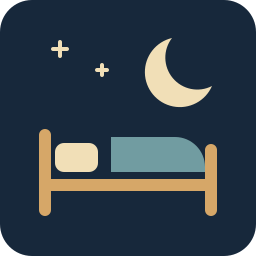
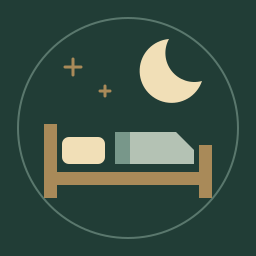
Add MIT licensing and matching Bedtime artwork

diff --git a/src/Bedtime/Properties/AssemblyInfo.cs b/src/Bedtime/Properties/AssemblyInfo.cs
@@ -4,3 +4,5 @@ using System.Reflection;
 [assembly: AssemblyProduct("Bedtime")]
 [assembly: AssemblyVersion("1.0.0.0")]
 [assembly: AssemblyFileVersion("1.0.0.0")]
+
+[assembly: AssemblyCopyright("Copyright (c) 2026 AugusDogus")]

diff --git a/docs/REPOSITORY.md b/docs/REPOSITORY.md
@@ -11,7 +11,7 @@ keep runtime code, dependencies, tests, artwork, and licensing specific to the m
 .github/workflows/release.yml  Build, check, and publish version tags
 src/<Mod>/                    Plugin.cs, project, runtime code and resources
 tests/                        Mod checks and release-tool regression tests
-package/                      Thunderstore manifest, icon, banner, screenshots
+package/                      Manifest, artwork, and applicable third-party notices
 assets/                       Editable artwork and required asset sources
 build/Package.targets         Shared dotnet build -t:Package entry point
 scripts/                      Package validation, version updates, mod checks
@@ -25,7 +25,7 @@ bump.config.mjs               Reviewed version commit and tag creation
 thunderstore.toml             Thunderstore publication settings
 README.md                     Player-facing overview, setup, controls, build link
 CHANGELOG.md                  Release history
-LICENSE.md                    Existing project license, when one is declared
+LICENSE.md                    MIT for original contributions; scoped where needed
 ```
 
 `artifacts/`, `bin/`, `obj/`, downloaded dependencies, and `Environment.props`
@@ -46,3 +46,10 @@ or runtime dependency on another repository is required.
 The root README is the source for both GitHub and the package page. Keep artwork
 under `package/` and link developer details under `docs/`; packaging adjusts
 those links. Retain existing attribution and licenses when starting from a fork.
+
+Use MIT for original AugusDogus code with a dated copyright notice. Preserve
+upstream authors, copyright years, license terms, and font notices. Adding
+MIT does not relicense inherited material. Put applicable third-party terms
+in `package/THIRD-PARTY-NOTICES.md` so they are included in release ZIPs.
+If upstream permissions are unknown, state that explicitly and limit the
+MIT grant to original contributions.

diff --git a/LICENSE.md b/LICENSE.md
@@ -1,13 +1,21 @@
-            DO WHAT THE FUCK YOU WANT TO PUBLIC LICENSE
-                    Version 2, December 2004
+MIT License
 
- Copyright (C) 2004 Sam Hocevar <sam@hocevar.net>
+Copyright (c) 2026 AugusDogus
 
- Everyone is permitted to copy and distribute verbatim or modified
- copies of this license document, and changing it is allowed as long
- as the name is changed.
+Permission is hereby granted, free of charge, to any person obtaining a copy
+of this software and associated documentation files (the "Software"), to deal
+in the Software without restriction, including without limitation the rights
+to use, copy, modify, merge, publish, distribute, sublicense, and/or sell
+copies of the Software, and to permit persons to whom the Software is
+furnished to do so, subject to the following conditions:
 
-            DO WHAT THE FUCK YOU WANT TO PUBLIC LICENSE
-   TERMS AND CONDITIONS FOR COPYING, DISTRIBUTION AND MODIFICATION
+The above copyright notice and this permission notice shall be included in all
+copies or substantial portions of the Software.
 
-  0. You just DO WHAT THE FUCK YOU WANT TO.
+THE SOFTWARE IS PROVIDED "AS IS", WITHOUT WARRANTY OF ANY KIND, EXPRESS OR
+IMPLIED, INCLUDING BUT NOT LIMITED TO THE WARRANTIES OF MERCHANTABILITY,
+FITNESS FOR A PARTICULAR PURPOSE AND NONINFRINGEMENT. IN NO EVENT SHALL THE
+AUTHORS OR COPYRIGHT HOLDERS BE LIABLE FOR ANY CLAIM, DAMAGES OR OTHER
+LIABILITY, WHETHER IN AN ACTION OF CONTRACT, TORT OR OTHERWISE, ARISING FROM,
+OUT OF OR IN CONNECTION WITH THE SOFTWARE OR THE USE OR OTHER DEALINGS IN THE
+SOFTWARE.

diff --git a/assets/artwork/README.md b/assets/artwork/README.md
@@ -1,0 +1,16 @@
+# Artwork
+
+Bedtime follows the forest-green, cream, sage, and brass palette used by
+Buildheim, ComfortView, ShieldMeBruhReforged, and Soundheim. The icon and banner
+share a bed-and-moon emblem. The SVG files are the editable sources.
+
+The banner is 1200 by 400 pixels; the package icon is 256 by 256 pixels.
+Banner lettering uses DejaVu Serif Bold and DejaVu Sans, converted to paths
+for consistent rendering. Font notices are in `FONT-LICENSE.txt`.
+
+Render from the repository root with librsvg:
+
+```sh
+rsvg-convert assets/artwork/icon.svg -o package/icon.png
+rsvg-convert assets/artwork/banner.svg -o package/banner.png
+```

diff --git a/README.md b/README.md
@@ -1,4 +1,6 @@
-# Bedtime
+<p align="center">
+  <img src="package/banner.png" alt="Bedtime: sleep announcements for Valheim" width="900">
+</p>
 
 A dedicated-server Valheim mod that shows how many players are in bed. Players can use vanilla clients, including consoles.
 
@@ -55,3 +57,8 @@ Inspired by the server announcements in
 independent implementation and no dependency on its code or plugins.
 
 [Development and releases](docs/DEVELOPMENT.md) · [Repository layout](docs/REPOSITORY.md)
+
+## License
+
+[MIT](LICENSE.md). Copyright (c) 2026 AugusDogus.
+Banner font notices are retained in [FONT-LICENSE.txt](assets/artwork/FONT-LICENSE.txt).
